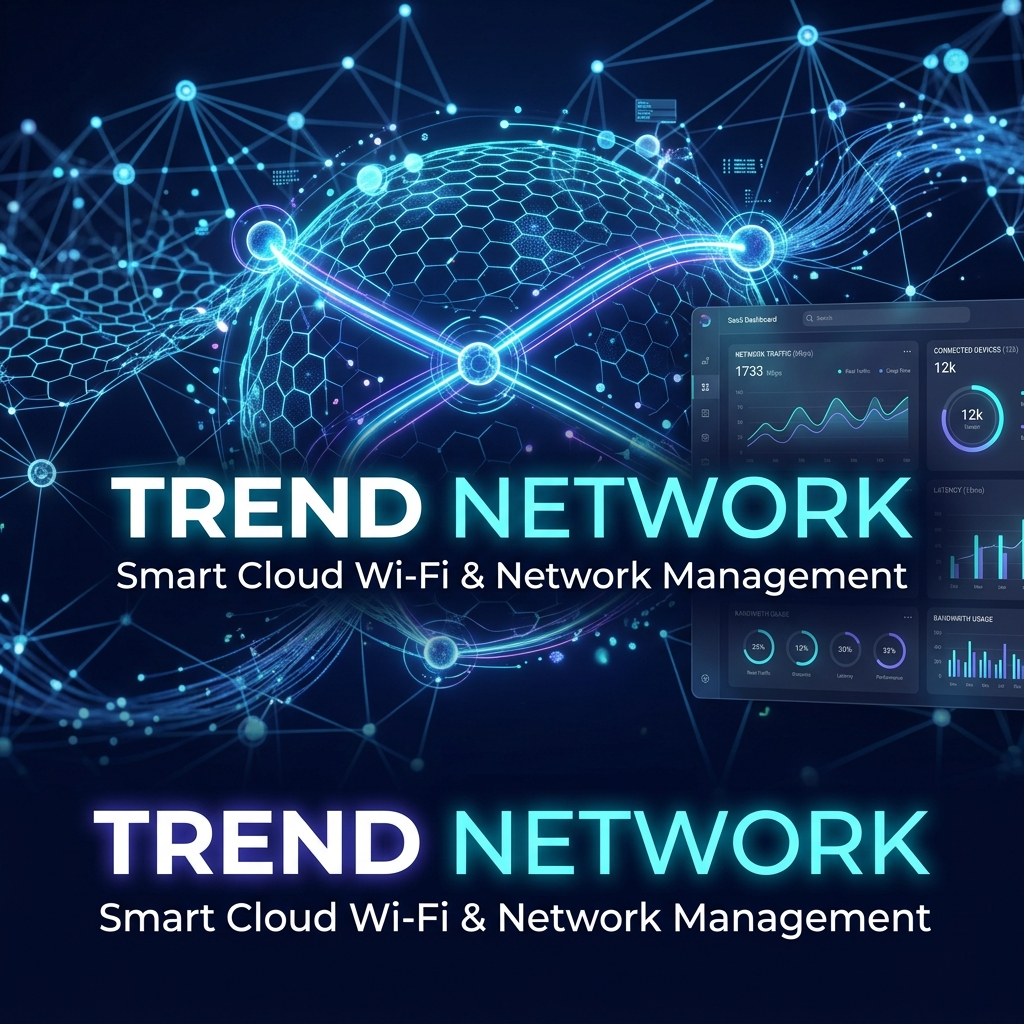
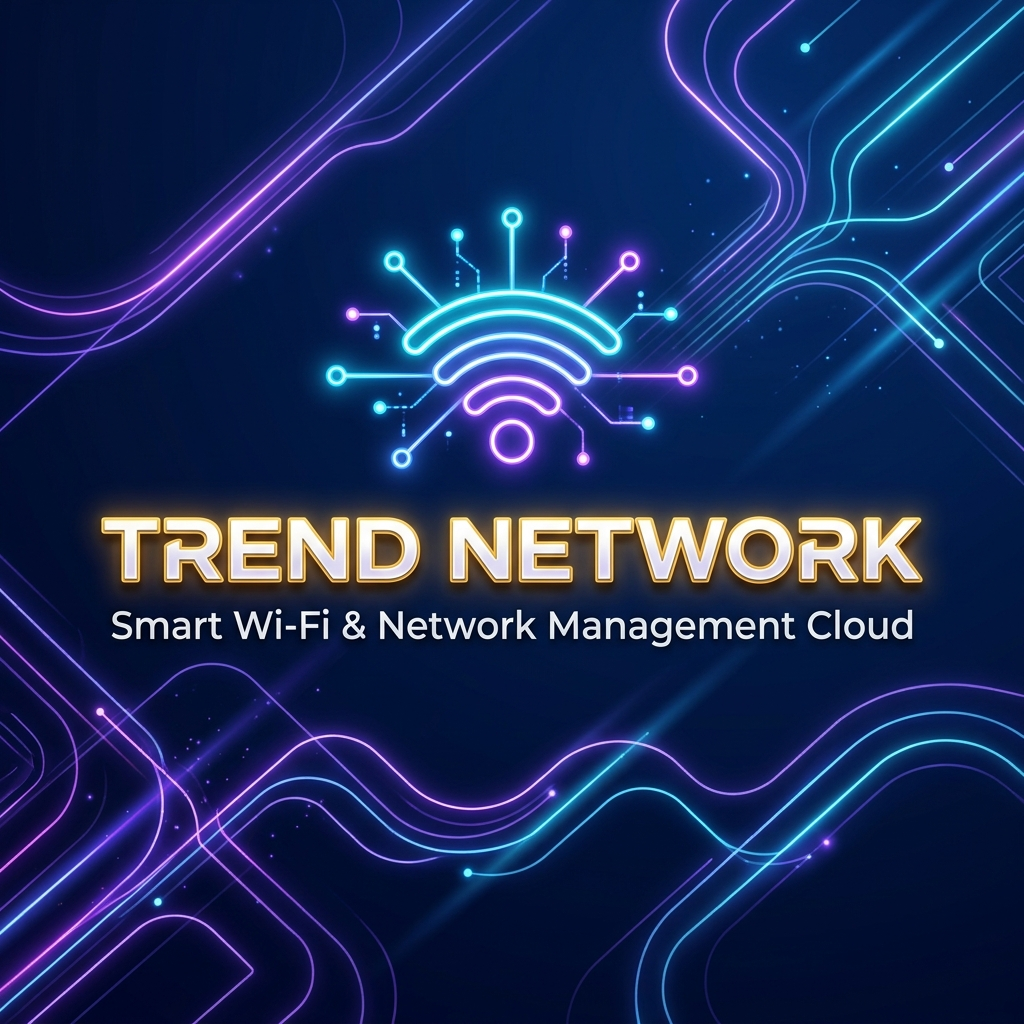
تحديثات جديدة على تصميم الموقع

diff --git a/src/components/sections/Radius.tsx b/src/components/sections/Radius.tsx
@@ -1,6 +1,7 @@
 import { motion } from "framer-motion";
 import { useApp } from "@/context/AppContext";
 import { translations } from "@/data/translations";
+import { Wifi, Activity, Cpu, ShieldCheck } from "lucide-react";
 
 export default function Radius() {
   const { language, theme } = useApp();
@@ -81,30 +82,127 @@ export default function Radius() {
           </div>
         </div>
 
-        {/* Left/Right Split Column: Light Mockups Panel */}
-        <div className="lg:col-span-6 bg-[#f8fafc] dark:bg-[#0a0d16] relative min-h-[300px] sm:min-h-[400px] lg:min-h-0 aspect-[4/3] sm:aspect-video lg:aspect-auto flex items-center justify-center overflow-hidden transition-colors duration-300">
-          {/* Subtle grid pattern background */}
-          <div className="absolute inset-0 opacity-[0.03] dark:opacity-[0.05] pointer-events-none"
-            style={{
-              backgroundImage: theme === 'dark' 
-                ? 'radial-gradient(rgba(255, 255, 255, 0.15) 1.5px, transparent 1.5px)' 
-                : 'radial-gradient(#0f172a 1.5px, transparent 1.5px)',
-              backgroundSize: "24px 24px",
-            }}
-          />
-
-          <motion.div
-            initial={{ opacity: 0, scale: 1.05 }}
-            whileInView={{ opacity: 1, scale: 1 }}
-            viewport={{ once: true }}
-            transition={{ duration: 0.8, ease: "easeOut" }}
-            className="w-full h-full absolute inset-0 animate-fade-in"
-          >
+        {/* Left/Right Split Column: Live SaaS Mockup Panel */}
+        <div className="lg:col-span-6 bg-[#030712] relative min-h-[450px] lg:min-h-0 flex items-center justify-center overflow-hidden p-6 sm:p-12">
+          {/* High-tech background image */}
+          <div className="absolute inset-0 z-0">
             <img
-              src="/radius_mockup.png"
-              alt="Radius Mobile Dashboard App Mockups"
-              className="w-full h-full object-contain md:object-cover object-center select-none pointer-events-none"
+              src="/tech-bg.png"
+              alt="Technology Network Background"
+              className="w-full h-full object-cover opacity-60 filter saturate-150 select-none pointer-events-none"
             />
+            <div className="absolute inset-0 bg-gradient-to-t from-[#030712] via-transparent to-[#030712] opacity-80" />
+            <div className="absolute inset-0 bg-gradient-to-r from-[#030712] via-transparent to-transparent opacity-70" />
+          </div>
+
+          {/* Interactive Glassmorphic SaaS Dashboard Mockup */}
+          <motion.div
+            initial={{ opacity: 0, y: 30, scale: 0.95 }}
+            whileInView={{ opacity: 1, y: 0, scale: 1 }}
+            viewport={{ once: true }}
+            transition={{ duration: 0.8, type: "spring", bounce: 0.2 }}
+            className="relative z-10 w-full max-w-md rounded-3xl backdrop-blur-xl bg-slate-950/70 border border-slate-800/80 p-6 sm:p-8 shadow-[0_0_50px_rgba(79,70,229,0.15)] flex flex-col gap-6 text-start"
+            dir={language === 'ar' ? 'rtl' : 'ltr'}
+          >
+            {/* Header Widget */}
+            <div className="flex items-center justify-between border-b border-slate-800/60 pb-4">
+              <div className="flex items-center gap-3">
+                <div className="w-10 h-10 rounded-2xl bg-indigo-600/20 border border-indigo-500/30 flex items-center justify-center text-indigo-400 shadow-[0_0_15px_rgba(99,102,241,0.2)] animate-pulse">
+                  <Wifi className="w-5 h-5" />
+                </div>
+                <div>
+                  <h4 className="font-display font-black text-white text-sm">TREND NETWORK</h4>
+                  <p className="text-[10px] text-emerald-400 flex items-center gap-1 mt-0.5 font-sans">
+                    <span className="w-1.5 h-1.5 rounded-full bg-emerald-500 animate-ping inline-block" />
+                    {language === 'ar' ? 'النظام نشط ومستقر' : 'System Active & Stable'}
+                  </p>
+                </div>
+              </div>
+              <div className="px-3 py-1 rounded-full bg-slate-900 border border-slate-800 text-[10px] font-bold text-slate-400">
+                v2.4.8
+              </div>
+            </div>
+
+            {/* Simulated Live Analytics Grid */}
+            <div className="grid grid-cols-2 gap-4">
+              {/* Clients Card */}
+              <div className="bg-slate-900/50 border border-slate-800/50 rounded-2xl p-4 flex flex-col gap-1.5">
+                <span className="text-[10px] text-slate-400 font-semibold">{language === 'ar' ? 'المستخدمين النشطين' : 'Active Users'}</span>
+                <span className="text-xl font-display font-black text-white font-mono">1,492</span>
+                <div className="w-full bg-slate-800 rounded-full h-1 mt-1 overflow-hidden">
+                  <motion.div 
+                    initial={{ width: 0 }}
+                    whileInView={{ width: "75%" }}
+                    viewport={{ once: true }}
+                    transition={{ duration: 1, delay: 0.3 }}
+                    className="bg-indigo-500 h-1 rounded-full" 
+                  />
+                </div>
+              </div>
+
+              {/* Uptime Card */}
+              <div className="bg-slate-900/50 border border-slate-800/50 rounded-2xl p-4 flex flex-col gap-1.5">
+                <span className="text-[10px] text-slate-400 font-semibold">{language === 'ar' ? 'نسبة التشغيل المستمر' : 'Network Uptime'}</span>
+                <span className="text-xl font-display font-black text-emerald-400 font-mono">99.98%</span>
+                <div className="w-full bg-slate-800 rounded-full h-1 mt-1 overflow-hidden">
+                  <motion.div 
+                    initial={{ width: 0 }}
+                    whileInView={{ width: "99.9%" }}
+                    viewport={{ once: true }}
+                    transition={{ duration: 1, delay: 0.3 }}
+                    className="bg-emerald-500 h-1 rounded-full" 
+                  />
+                </div>
+              </div>
+            </div>
+
+            {/* Performance Indicators */}
+            <div className="flex flex-col gap-3 bg-slate-900/30 border border-slate-800/40 rounded-2xl p-4">
+              <div className="flex items-center justify-between text-xs">
+                <span className="text-slate-400 flex items-center gap-1.5">
+                  <Cpu className="w-3.5 h-3.5 text-indigo-400" />
+                  {language === 'ar' ? 'ضغط المعالج' : 'CPU Load'}
+                </span>
+                <span className="text-white font-mono font-bold">14%</span>
+              </div>
+              <div className="w-full bg-slate-800 rounded-full h-1.5 overflow-hidden">
+                <motion.div 
+                  initial={{ width: 0 }}
+                  whileInView={{ width: "14%" }}
+                  viewport={{ once: true }}
+                  transition={{ duration: 1, delay: 0.4 }}
+                  className="bg-indigo-400 h-1.5 rounded-full" 
+                />
+              </div>
+
+              <div className="flex items-center justify-between text-xs mt-1">
+                <span className="text-slate-400 flex items-center gap-1.5">
+                  <Activity className="w-3.5 h-3.5 text-cyan-400" />
+                  {language === 'ar' ? 'معدل نقل البيانات' : 'Live Traffic'}
+                </span>
+                <span className="text-white font-mono font-bold">482 Mbps</span>
+              </div>
+              <div className="w-full bg-slate-800 rounded-full h-1.5 overflow-hidden">
+                <motion.div 
+                  initial={{ width: 0 }}
+                  whileInView={{ width: "68%" }}
+                  viewport={{ once: true }}
+                  transition={{ duration: 1, delay: 0.5 }}
+                  className="bg-cyan-400 h-1.5 rounded-full" 
+                />
+              </div>
+            </div>
+
+            {/* Status Footer Badge */}
+            <div className="flex items-center gap-2 text-[10px] text-slate-400 bg-slate-900/40 border border-slate-800/60 rounded-xl p-3">
+              <ShieldCheck className="w-4 h-4 text-emerald-400 flex-shrink-0" />
+              <span>
+                {language === 'ar' 
+                  ? 'يتم تشغيل ونسخ إعدادات السيرفر احتياطياً بشكل آمن وتلقائي.' 
+                  : 'Server settings are running and backed up securely and automatically.'}
+              </span>
+            </div>
+
           </motion.div>
         </div>
 

diff --git a/src/app/layout.tsx b/src/app/layout.tsx
@@ -15,7 +15,7 @@ export const viewport = {
 };
 
 export const metadata: Metadata = {
-  metadataBase: new URL("https://trend-network.net"),
+  metadataBase: new URL("https://trend-network-web.vercel.app"),
   title: "TREND NETWORK | سيستم واي فاي ذكي وإدارة شبكات الكافيهات",
   description: "أنظمة واي فاي ذكية لإدارة وتوزيع سرعات الإنترنت، طباعة كروت شحن الواي فاي السحابية، وحماية الشبكات في مصر والوطن العربي.",
   keywords: [
@@ -36,7 +36,7 @@ export const metadata: Metadata = {
   openGraph: {
     title: "TREND NETWORK | سيستم واي فاي ذكي وإدارة شبكات الكافيهات",
     description: "الحل السحابي المتكامل لإدارة شبكة الواي فاي وتوليد كروت الإنترنت لكافيهك بذكاء وسرعة.",
-    url: "https://trend-network.net",
+    url: "https://trend-network-web.vercel.app",
     siteName: "TREND NETWORK",
     images: [
       {